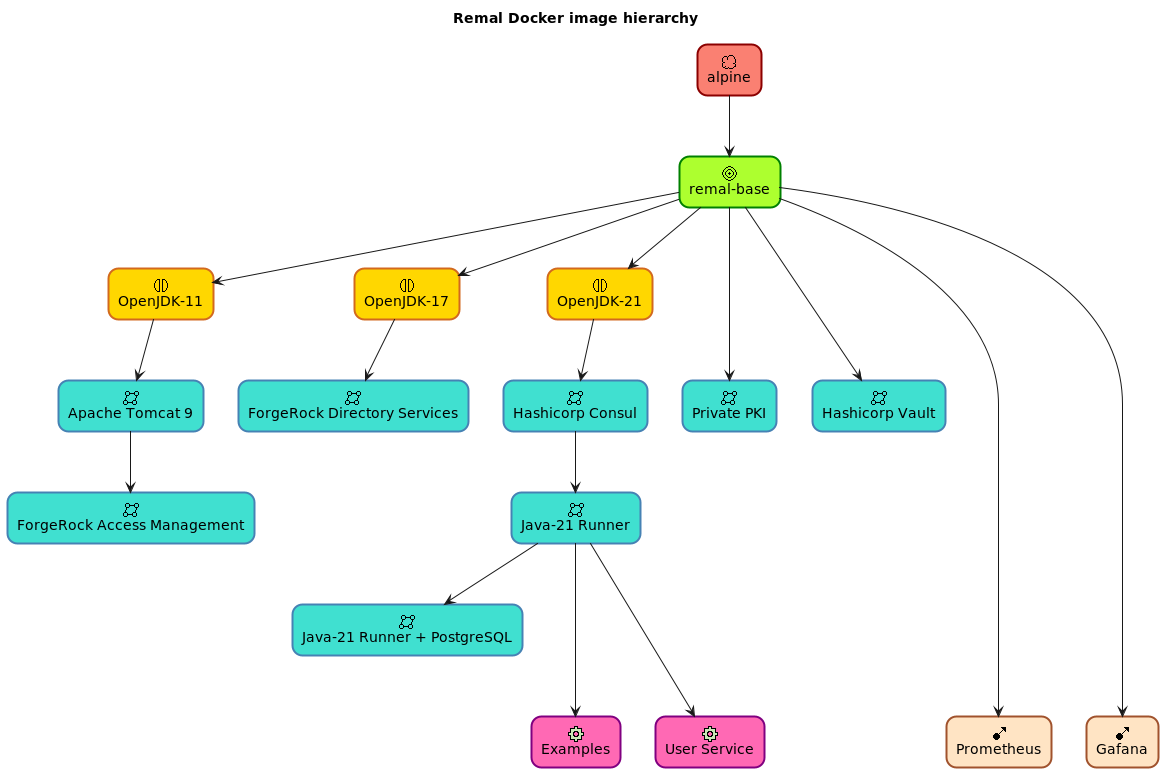
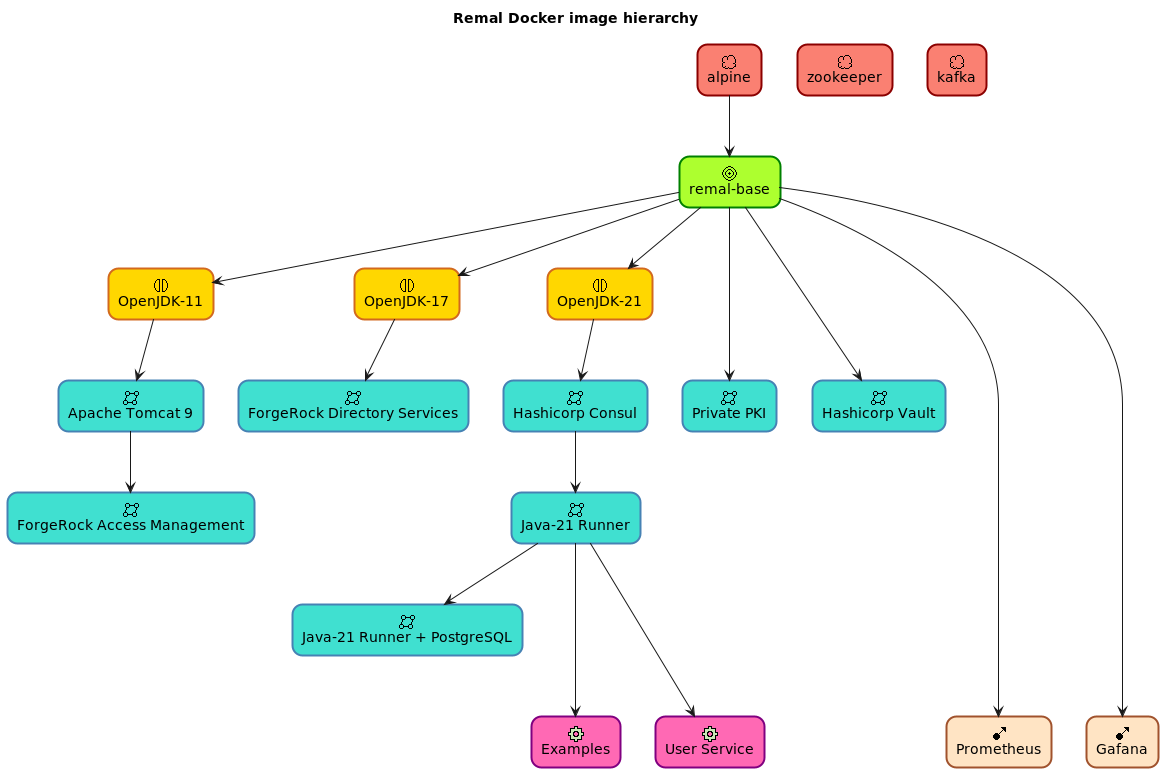
new environment variable for Kafka integration

Changed region(s): [[0.681, 0.0311, 0.8667, 0.1244]]

diff --git a/docker/application/java-21-runner/RELEASE.md b/docker/application/java-21-runner/RELEASE.md
@@ -2,6 +2,11 @@
 
 All notable changes to this project will be documented in this file.
 
+## [0.5.0] - 25/Jul/2024
+#### Added
+* a new environment variable with default value for Kafka integration: `KAFKA_SERVERS="kafka-1.hello.com:19092, kafka-2.hello.com:19092"`.
+  The default value can be overwritten from the `docker-compose.yml` file and value can be used from bash or Spring Boot `application.properties` file.
+
 ## [0.0.1] - 24/Feb/2024
 #### Added
 * install `HashiCorp Consul Client`

diff --git a/docker/application/java-21-postgres-runner/RELEASE.md b/docker/application/java-21-postgres-runner/RELEASE.md
@@ -2,9 +2,13 @@
 
 All notable changes to this project will be documented in this file.
 
+## [0.0.2] - 25/Jul/2024
+#### Modified
+* updating the parent image version to `remal-java-21-runner:0.5.0`
+
 ## [0.0.1] - 15/Apr/2024
 #### Added
-* install `Postgres`
+* adding `Postgres` database server to the image
 
 <a href="https://trackgit.com">
   <img src="https://us-central1-trackgit-analytics.cloudfunctions.net/token/ping/lcfhkdub7k2lpj33n2cl" alt="trackgit-views" />

diff --git a/docker/README.md b/docker/README.md
@@ -162,7 +162,7 @@ Images and its types:
 **Network**
 * List of the opened port
   * Connect to the container with SSH and install nmap: `apk add nmap` or `yum install nmap`
-  * Run the port-scan with `nmap <host>`, e.g. `nmap ds.remal.com`
+  * Run the port-scan with `nmap -p- <host>`, e.g. `nmap ds.remal.com`
 
 **PKI**
 * Lists entries in a keystore: `keytool -list -v -keystore <keystore-file> -storepass <changeit>`
